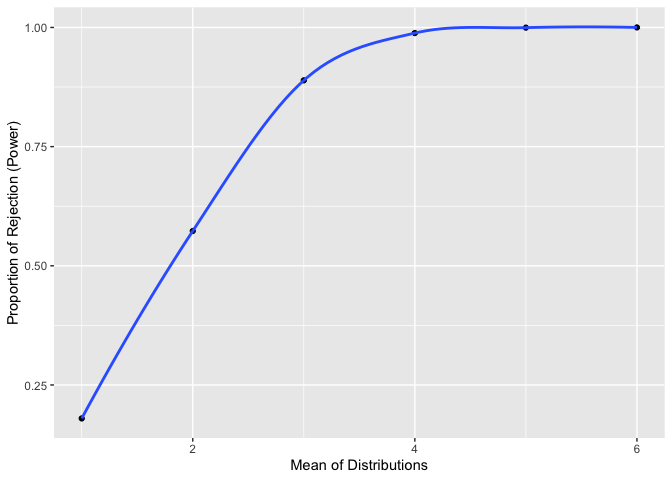
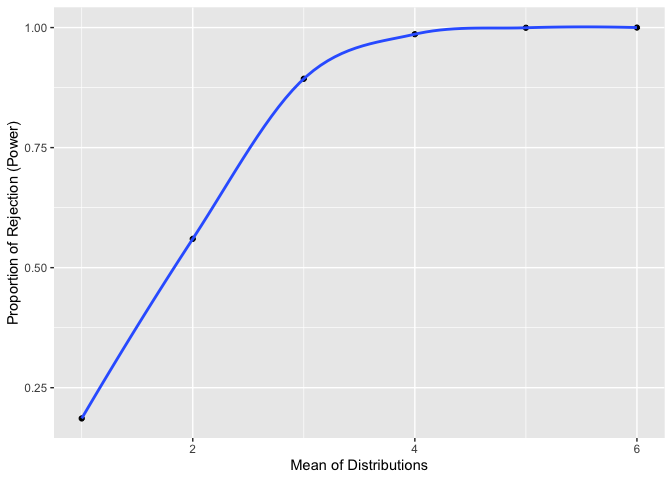
Change

diff --git a/p8105_hw5_yj2752.md b/p8105_hw5_yj2752.md
@@ -7,7 +7,7 @@ Yixuan Jiao
 ``` r
 library(purrr)
 library(tidyverse)
-set.seed(42)
+set.seed(2022)
 ```
 
 ## Problem1
@@ -215,12 +215,12 @@ expand_grid(
     ## # A tibble: 6 × 3
     ##      mu estimate p.value
     ##   <dbl>    <dbl>   <dbl>
-    ## 1     0   0.343    0.767
-    ## 2     0  -0.610    0.530
-    ## 3     0   0.954    0.193
-    ## 4     0  -0.0942   0.921
-    ## 5     0  -1.31     0.100
-    ## 6     0  -0.0841   0.920
+    ## 1     0 -0.580   0.498  
+    ## 2     0  0.543   0.483  
+    ## 3     0  1.87    0.0959 
+    ## 4     0  0.159   0.865  
+    ## 5     0 -0.00536 0.996  
+    ## 6     0 -2.98    0.00195
 
 Iterate 5000 times for each of $\mu = \{1,2,3,4,5,6\}$
 
